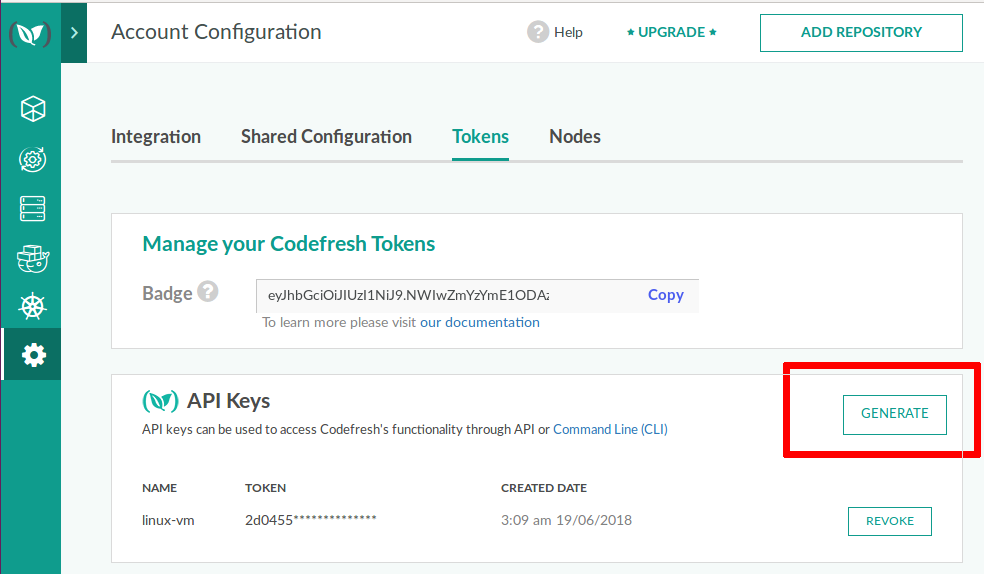
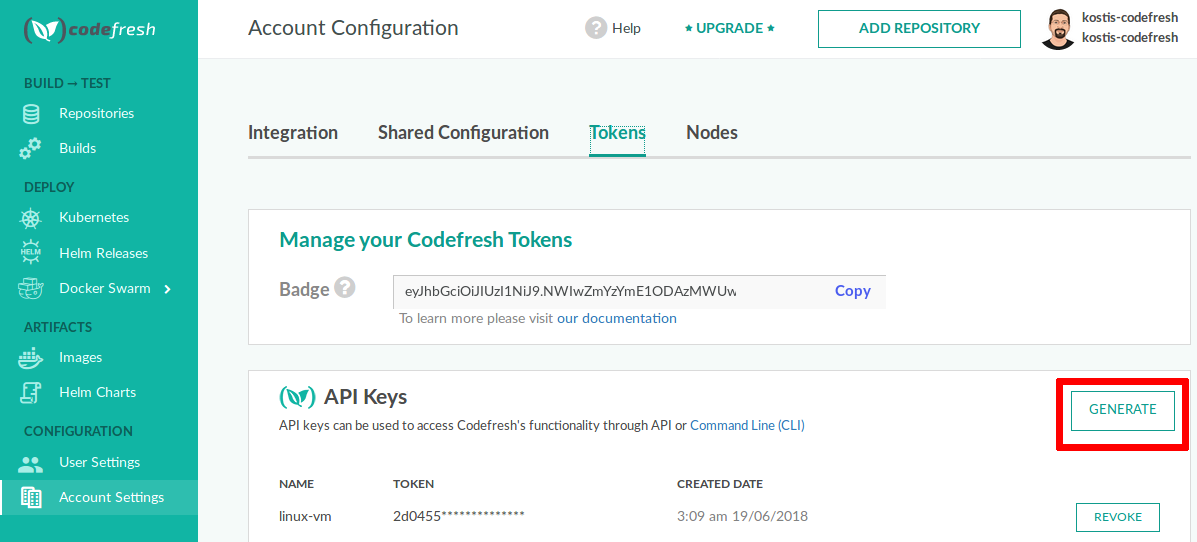
Updated curl command with authorization header

diff --git a/_docs/integrations/codefresh-api.md b/_docs/integrations/codefresh-api.md
@@ -59,7 +59,7 @@ max-width="70%"
 
 You can also copy the `curl` command shown in the UI. It includes the token in the request.
 
-If you want to create your own token then click *Configuration* on the left sidebar and select the *tokens* tab.
+If you want to create your own token then click *Account Settings* on the left sidebar and select the *tokens* tab.
 Click the *generate* button and copy your token. 
 
 
@@ -104,16 +104,17 @@ codefresh run kostis-codefresh/nestjs-example/ci-build -b master -v sample-var1=
 For the API you can trigger a pipeline by finding its serviceId from the UI
 
 {% highlight bash %}
-curl 'https://g.codefresh.io/api/builds/5b1a78d1bdbf074c8a9b3458' --compressed -H 'content-type:application/json; charset=utf-8' -H 'x-access-token: <your_token_here>' --data-binary '{"serviceId":"5b1a78d1bdbf074c8a9b3458","type":"build","repoOwner":"kostis-codefresh","branch":"master","repoName":"nestjs-example"}'
+curl 'https://g.codefresh.io/api/builds/5b1a78d1bdbf074c8a9b3458' --compressed -H 'content-type:application/json; charset=utf-8' -H 'Authorization: <your_token_here>' --data-binary '{"serviceId":"5b1a78d1bdbf074c8a9b3458","type":"build","repoOwner":"kostis-codefresh","branch":"master","repoName":"nestjs-example"}'
 {% endhighlight %}
 
 You can also pass extra environment variables using an array
 
 {% highlight bash %}
-curl 'https://g.codefresh.io/api/builds/5b1a78d1bdbf074c8a9b3458' --compressed -H 'content-type:application/json; charset=utf-8' -H 'x-access-token: <your_token_here>' --data-binary '{"serviceId":"5b1a78d1bdbf074c8a9b3458","type":"build","repoOwner":"kostis-codefresh","branch":"master","repoName":"nestjs-example","variables":{"sample-var1":"sample1","SAMPLE_VAR2":"SAMPLE2"}}'
+curl 'https://g.codefresh.io/api/builds/5b1a78d1bdbf074c8a9b3458' --compressed -H 'content-type:application/json; charset=utf-8' -H 'Authorization: <your_token_here>' --data-binary '{"serviceId":"5b1a78d1bdbf074c8a9b3458","type":"build","repoOwner":"kostis-codefresh","branch":"master","repoName":"nestjs-example","variables":{"sample-var1":"sample1","SAMPLE_VAR2":"SAMPLE2"}}'
 {% endhighlight %}
 
-The exact webhook can be easily found on the build settings for each pipeline.
+Specifically for triggering pipelines remotely you can find a premade Curl command (including an api token) in the build settings for each each pipeline:
+
 
 {% include image.html 
 lightbox="true" 
@@ -125,7 +126,7 @@ max-width="70%"
 %}
 
 
-If you press the copy button you will have in your clipboard the whole request (including a token)
+If you press the copy button you will have in your clipboard the whole request (including a token).
 
 ## Example - getting status from builds
 
@@ -138,7 +139,7 @@ codefresh get builds 5b4f927dc70d080001536fe3
 Same thing with the API
 
 {% highlight bash %}
-curl -X GET --header "Accept: application/json" --header "x-access-token: <your_token_here>" "https://g.codefresh.io/api/builds/5b4f927dc70d080001536fe3"
+curl -X GET --header "Accept: application/json" --header "Authorization: <your_token_here>" "https://g.codefresh.io/api/builds/5b4f927dc70d080001536fe3"
 {% endhighlight %}
 
 ## Example - creating Codefresh pipelines externally
